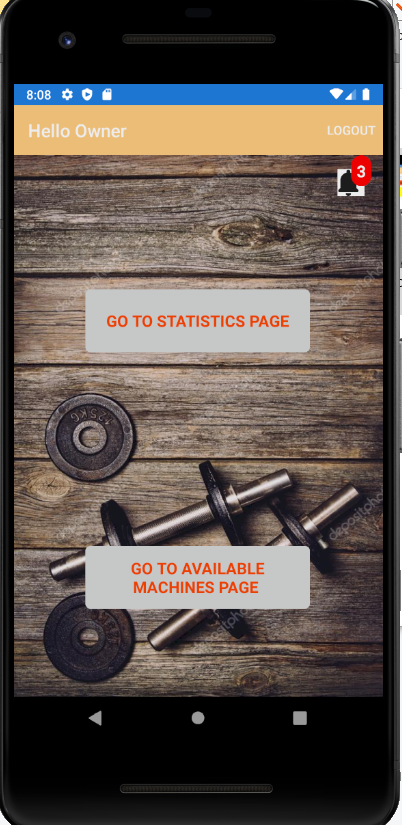
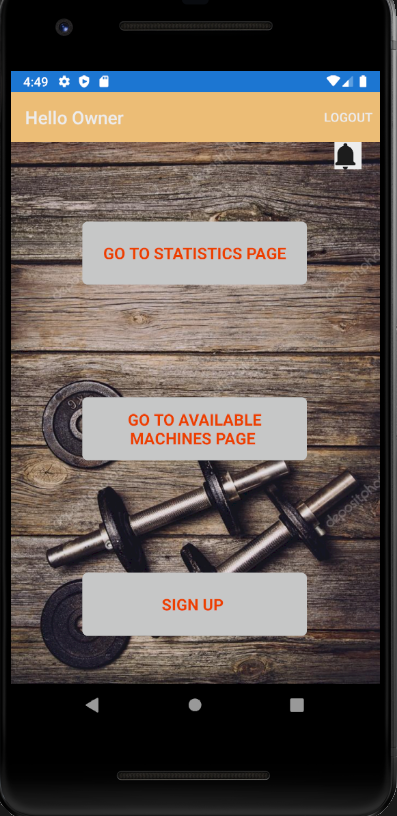
update website.
update website.

diff --git a/DocumentationWebsiteSmartGym/index.html b/DocumentationWebsiteSmartGym/index.html
@@ -278,7 +278,7 @@
                         <div class="col-lg-4 col-sm-6 marketing-4">
                             <div class="single-portfolio">
                                 <div class="portfolio-image">
-                                    <img src="assets/images/machine_progress_stats.png" alt="">
+                                    <img src="assets/images/Trainee/s_machine_progress.png" alt="">
                                     <div class="portfolio-overlay d-flex align-items-center justify-content-center">
                                         <div class="portfolio-content">
                                             <div class="portfolio-icon">
@@ -340,14 +340,114 @@
 
     <section id="machine-app" class="features-area">
         <div class="container">
-            <div class="row justify-content-center">
+		<div class="row justify-content-center">
                 <div class="col-lg-6 col-md-10">
                     <div class="section-title text-center pb-10">
                         <h3 class="title">Machine App</h3>
-                        <p class="text"> explain about machine app </p>
+                     
                     </div> <!-- row -->
                 </div>
             </div> <!-- row -->
+            <div class="row justify-content-center">
+                <div class="col-lg-6 col-md-10">
+                    <div class="section-title text-left pb-10">
+                        
+                        <p class="text"> The machine app is our device. It controls all the gym machines and allows the user to save the usage and progress on each machine.
+						<br/>
+						<br/>
+						The app allows to:
+						<br/>
+						1)<b>Scan</b> the personal <b>qrcode</b> of the trainee in order to start and stop using a machine.
+						<br/>						
+						2)<b>Save information about using a machine</b>: when the trainee starts using the machine, he enters info about the usage.
+						<br/>
+						3)Call for <b>help</b> from a machine.
+						<br/>
+						4)Alert for a <b>broken machine</b>.
+						<br/>
+						5)Change <b>status of the machine</b>(broken/not broken) - only for owner.
+						</p>
+                    </div> <!-- row -->
+                </div>
+            </div> <!-- row -->
+			<div class="row justify-content-center">
+                <div class="col-lg-4 col-md-7 col-sm-9">
+                    <div class="pricing-style mt-30">
+                        <div class="pricing-icon text-center">
+                            <img src="assets/images/machine_app/welcome.jpeg" alt="">
+                        </div>
+                        <div class="pricing-list">
+                            <ul>
+                                <li><i class="lni lni-check-mark-circle"></i> Welcome page of the machine app. Click on the button to see al machines. </li>
+                            </ul>
+                        </div>   
+                    </div> <!-- pricing style one -->
+                </div>
+				
+					
+						<div class="col-lg-4 col-md-7 col-sm-9">
+                    <div class="pricing-style mt-30">
+                        <div class="pricing-icon text-center">
+                            <img src="assets/images/machine_app/pick_machine.jpeg" alt="">
+                        </div>
+                        <div class="pricing-list">
+                            <ul>
+                                <li><i class="lni lni-check-mark-circle"></i>Choose machine to start using the machine</li>
+                            </ul>
+                        </div>   
+                    </div> <!-- pricing style one -->
+                </div>
+					
+                <div class="col-lg-4 col-md-7 col-sm-9">
+                    <div class="pricing-style mt-30">
+                        <div class="pricing-icon text-center">
+                            <img src="assets/images/machine_app/home_page_machine.jpeg" alt="">
+                        </div>
+                        <div class="pricing-list">
+                            <ul>
+                                <li><i class="lni lni-check-mark-circle"></i> Home page of a machine.Click start scan the than scan your qrcode to start and stop using the machine. </li>
+                            </ul>
+                        </div>   
+                    </div> <!-- pricing style one -->
+                </div>
+					
+                <div class="col-lg-4 col-md-7 col-sm-9">
+                    <div class="pricing-style mt-30">
+                        <div class="pricing-icon text-center">
+                            <img src="assets/images/machine_app/enter_info.jpeg" alt="">
+                        </div>
+                        <div class="pricing-list">
+                            <ul>
+                                <li><i class="lni lni-check-mark-circle"></i>When you start using the machine - you need to enter info usage.</li>
+                            </ul>
+                        </div>   
+                    </div> <!-- pricing style one -->
+                </div>
+				 <div class="col-lg-4 col-md-7 col-sm-9">
+                    <div class="pricing-style mt-30">
+                        <div class="pricing-icon text-center">
+                            <img src="assets/images/machine_app/change_status.jpeg" alt="">
+                        </div>
+                        <div class="pricing-list">
+                            <ul>
+                                <li><i class="lni lni-check-mark-circle"></i>Option to change the status of the machine when there is an alert on broken machine.</li>
+                            </ul>
+                        </div>   
+                    </div> <!-- pricing style one -->
+                </div>
+				 <div class="col-lg-4 col-md-7 col-sm-9">
+                    <div class="pricing-style mt-30">
+                        <div class="pricing-icon text-center">
+                            <img src="assets/images/machine_app/change_status_owner.jpeg" alt="">
+                        </div>
+                        <div class="pricing-list">
+                            <ul>
+                                <li><i class="lni lni-check-mark-circle"></i>Only the owner can change the status of a machine.</li>
+                            </ul>
+                        </div>   
+                    </div> <!-- pricing style one -->
+                </div>
+
         </div>
     </section>
 
@@ -560,6 +660,8 @@
 						2) Getting real time notification for alerts on broken machines.
 						<br/>
 						3)Add new machines
+						<br/>
+						4) Add new member.
 
 						
                     </div> <!-- row -->
@@ -604,6 +706,19 @@
                         </div>   
                     </div> <!-- pricing style one -->
                 </div>
+				
+				 <div class="col-lg-4 col-md-7 col-sm-9">
+                    <div class="pricing-style mt-30">
+                        <div class="pricing-icon text-center">
+                            <img src="assets/images/owner/sign_up.png" alt="">
+                        </div>
+                        <div class="pricing-list">
+                            <ul>
+                                <li><i class="lni lni-check-mark-circle"></i>Add new member</li>
+                            </ul>
+                        </div>   
+                    </div> <!-- pricing style one -->
+                </div>
 			
             </div>
 
@@ -637,7 +752,7 @@
                 <div class="col-lg-4 col-md-7 col-sm-9">
                     <div class="pricing-style mt-30">
                         <div class="pricing-icon text-center">
-                            <img src="assets/images/trainee_homepage_stats.png" alt="">
+                            <img src="assets/images/Trainee/statistic_home_page.png" alt="">
                         </div>
                         <div class="pricing-list">
                             <ul>
@@ -663,7 +778,7 @@
                 <div class="col-lg-4 col-md-7 col-sm-9">
                     <div class="pricing-style mt-30">
                         <div class="pricing-icon text-center">
-                            <img src="assets/images/machine_progress_stats.png" alt="">
+                            <img src="assets/images/Trainee/s_machine_progress.png" alt="">
                         </div>
                         <div class="pricing-list">
                             <ul>
@@ -673,6 +788,21 @@
                     </div> <!-- pricing style one -->
                 </div>
             </div>
+			
+			<div class="col-lg-4 col-md-7 col-sm-9">
+                    <div class="pricing-style mt-30">
+                        <div class="pricing-icon text-center">
+                            <img src="assets/images/Trainee/s_age_gender.png" alt="">
+                        </div>
+                        <div class="pricing-list">
+                            <ul>
+                                <li><i class="lni lni-check-mark-circle"></i> Comparison between the trainee progerss and other trainees with the same age and gender.</li>
+                            </ul>
+                        </div>   
+                    </div> <!-- pricing style one -->
+                </div>
+            </div>
+
 
             <div class="row justify-content-center">
                 <div class="col-lg-6 col-md-10">
@@ -817,19 +947,22 @@
 						
 						1)Listens to <b>SignalR</b> in order to update information on real time.
 						<br/>
-						2) Connects to <b>SQL database</b> in order to get and set information in the sql tables.
+						2) Uses <b>http trigger function app</b> in order to get and update the data in the <b>SQL database</b>.
 
 						</p>
 						<br/>
 						<p class="text">
 						<h3>Machine App(The device)</h3>
 						
-						Sends messages to the <b>Iot Hub</b>. 
+						1) Sends messages to the <b>Iot Hub -></b>. 
 						<br/>
-						<b>The Iot Hub</b> forwards the messages to the <b>Event Hub</b> .
+						<b>->The Iot Hub</b> forwards the messages to the <b>Event Hub -></b> .
 						<br/>
-						The <b>Event Hub</b> trigger function sends relevent messages using the <b>SignalR</b> according to the information from the device.
-						
+						-> The <b>Event Hub</b> trigger function sends relevent messages using the <b>SignalR</b> according to the information from the device.
+						<br/>
+						<br/>
+						2)Listens to SignalR to get messages on relevant info.
+						3)Uses <b>http trigger function app</b> in order to get information from the <b>SQL database</b>.
 						</p>
                     </div> <!-- row -->
                 </div>
@@ -837,7 +970,7 @@
 			<div class="row justify-content-center">
   
                         <div class="pricing-icon text-center">
-                            <img src="assets/images/Sketch_Tech.png" alt="" >
+                            <img src="assets/images/Sketch_Tech_2.png" alt="" >
                         </div>
 						
                    
@@ -895,7 +1028,7 @@
                                 <i class="lni lni-envelope"></i>
                             </div>
                             <div class="contact-info-content media-body">
-                                <p class="text">joe@mail.tau.ac.il</p>
+                                <p class="text">joebahou@mail.tau.ac.il</p>
                                 <p class="text">topazf@mail.tau.ac.il</p>
                                 <p class="text">funnyzeytler@gmail.com</p>
                             </div>

diff --git a/exampleApp/exampleApp/exampleApp/Pages/homePage.xaml.cs b/exampleApp/exampleApp/exampleApp/Pages/homePage.xaml.cs
@@ -618,7 +618,7 @@ namespace exampleApp.Pages
                         OnPropertyChanged("notifications_count");
 
                         await App.Current.MainPage.DisplayAlert("Alert", resultusage, "OK");
-                       
+                        await App.Current.MainPage.Navigation.PopToRootAsync();
                     }
 
 
